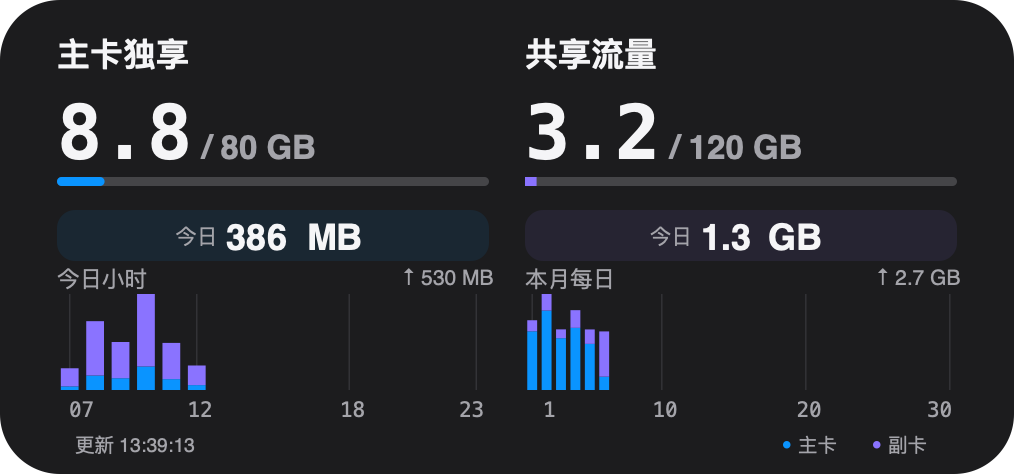
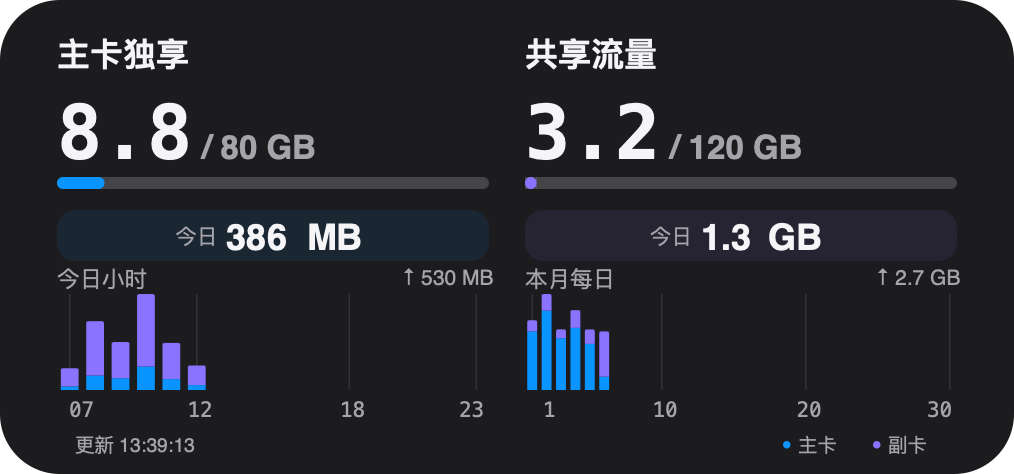
Refresh Unicom today layouts and round widget charts

diff --git a/scriptable/UnicomFlow.js b/scriptable/UnicomFlow.js
@@ -45,9 +45,11 @@ const UF = {
   blue: '0A94FF', purple: '8A73FF', warning: 'FFD166', gridMajor: '38383C', gridMinor: '27272B',
 };
 const UF_DEFAULTS = { ...UF };
-const UF_MEDIUM_LAYOUTS = ['今日横条', '今日集中方块', '今日侧边胶囊'];
+const UF_MEDIUM_LAYOUTS = ['今日横条', '今日在上', '今日右上角'];
 
 function normalizedMediumLayout(value) {
+  if (value === '今日集中方块') return '今日在上';
+  if (value === '今日侧边胶囊') return '今日右上角';
   return UF_MEDIUM_LAYOUTS.includes(value) ? value : UF_DEFAULTS.mediumLayout;
 }
 
@@ -163,6 +165,7 @@ function megabytes(value, unit) {
 function formatMB(value, mode = 'usage') {
   if (value == null || !Number.isFinite(value)) return '—';
   if (value === 0) return '0MB';
+  if (mode === 'daily' && value > 0 && value < 1) return '<1MB';
   const scale = value >= 1024 ? [1024, 'GB'] : [1, 'MB'];
   const displayed = value / scale[0];
   const digits = value < 1024 && value >= 10 ? 0 : 1;
@@ -1143,6 +1146,24 @@ function roundedRect(ctx, x, y, w, h, radius, color) {
   ctx.fillPath();
 }
 
+// 在整根色条绘制后修整外角，分段交界保持直角，微小色段也不会被拉长。
+function softenBarCorners(ctx, x, y, width, height, radius, background, topOnly = false) {
+  const r = Math.min(radius, width / 2, height / 2);
+  if (!(r > 0)) return;
+  const corners = [[x, y, 1, 1], [x + width, y, -1, 1]];
+  if (!topOnly) corners.push([x, y + height, 1, -1], [x + width, y + height, -1, -1]);
+  ctx.setFillColor(new Color(background));
+  for (const [cx, cy, dx, dy] of corners) {
+    const point = (px, py) => new Point(cx + px * dx, cy + py * dy);
+    const path = new Path(), control = r * (1 - 0.55228475);
+    path.move(point(0, 0));
+    path.addLine(point(r, 0));
+    path.addCurve(point(0, r), point(control, 0), point(0, control));
+    path.closeSubpath();
+    ctx.addPath(path); ctx.fillPath();
+  }
+}
+
 function drawMetric(ctx, metric, label, x, y, width, compact, today = false, dailyUsed = null) {
   const title = ['通用', '定向'].includes(label) ? '数据流量·' + label : label;
   const heading = today ? title + ' · 今日' : title;
@@ -1221,44 +1242,46 @@ function combinedTint(accent, strength = 0.09) {
   }).join('');
 }
 
-function combinedTodayText(value, width) {
+function combinedTodayText(value, width, scale = 1, increment = false, maxSize = Infinity) {
   const formatted = formatMB(value, 'daily'), match = formatted.match(/^(.*?)(MB|GB)$/);
   const runs = match ? [match[1], match[2]] : [formatted];
+  if (increment && value > 0 && Number.isFinite(value) && !formatted.startsWith('<')) runs[0] = '+' + runs[0];
   // 数字、单位独立绘制并预留真实字宽，避免真机换行后裁掉单位。
   const units = runs.map((run, index) => numberWidth(run, 1, 'today') * (index ? 1.2 : 1.05));
-  const size = Math.min(UF.todayFontSize, (width - 2 * runs.length - 2 * (runs.length - 1)) / Math.max(1, units.reduce((a, b) => a + b, 0)));
+  const size = Math.min(UF.todayFontSize * scale, maxSize, (width - 2 * runs.length - 2 * (runs.length - 1)) / Math.max(1, units.reduce((a, b) => a + b, 0)));
   const widths = units.map(unit => unit * size + 2);
   return { runs, size, widths, width: widths.reduce((a, b) => a + b, 0) + 2 * (runs.length - 1) };
 }
 
-function drawCombinedToday(ctx, value, x, y, width, height, label = '') {
+function drawCombinedToday(ctx, value, x, y, width, height, label = '', options = {}) {
   const labelWidth = label ? 14 : 0, gap = label ? 3 : 0;
-  const spec = combinedTodayText(value, width - labelWidth - gap);
-  let start = x + (width - spec.width - labelWidth - gap) / 2;
+  const spec = combinedTodayText(value, width - labelWidth - gap, options.scale || 1, options.increment, height / 1.2);
+  let start = options.left ? x : x + (width - spec.width - labelWidth - gap) / 2;
   if (label) {
     text(ctx, label, start, y + (height - 8.4) / 2, labelWidth, 8.4, 7, UF.muted);
     start += labelWidth + gap;
   }
   spec.runs.forEach((run, index) => {
-    text(ctx, run, start, y + (height - spec.size * 1.2) / 2, spec.widths[index], spec.size * 1.2, spec.size, UF.text, 'today');
+    text(ctx, run, start, y + (height - spec.size * 1.2) / 2, spec.widths[index], spec.size * 1.2, spec.size, options.color || UF.text, 'today');
     start += spec.widths[index] + 2;
   });
 }
 
-function drawCombinedMonth(ctx, metric, x, y, width, stacked = false) {
+function drawCombinedMonth(ctx, metric, x, y, width, options = {}) {
   const used = metric ? metric.used / 1024 : null;
   const primary = used == null ? '—' : used > 0 && used < 0.1 ? '<0.1' : used.toFixed(1);
   const quota = metric ? metric.total == null ? ' GB / 不限量' : ` / ${formatGB(metric.total, true)} GB` : '';
-  const quotaSize = Math.min(UF.totalFontSize, width / Math.max(1, numberWidth(quota, 1, 'total')));
-  const primarySize = Math.min(UF.usageFontSize, (width - (stacked ? 0 : numberWidth(quota, quotaSize, 'total') + 2))
+  const quotaSize = Math.min(UF.totalFontSize * (options.totalScale || 1), width / Math.max(1, numberWidth(quota, 1, 'total')));
+  const primarySize = Math.min(UF.usageFontSize * (options.scale || 1), (width - Math.max(options.reserve || 0, numberWidth(quota, quotaSize, 'total') + 2))
     / Math.max(1, numberWidth(primary, 1, 'usage')));
   const valueWidth = numberWidth(primary, primarySize, 'usage');
   text(ctx, primary, x, y, valueWidth + 2, 34, primarySize, UF.text, 'number');
-  if (quota) text(ctx, quota, stacked ? x : x + valueWidth + 2, stacked ? y + 28 : y + primarySize - quotaSize,
-    stacked ? width : width - valueWidth - 2, 18, quotaSize, UF.muted, 'total');
+  if (quota) text(ctx, quota, x + valueWidth + 2, y + primarySize - quotaSize,
+    width - valueWidth - 2, 18, quotaSize, UF.muted, 'total');
+  return { rightX: x + valueWidth + 2, rightWidth: width - valueWidth - 2 };
 }
 
-function drawCombinedProgress(ctx, metric, x, y, width, height = 3) {
+function drawCombinedProgress(ctx, metric, x, y, width, height = 4) {
   roundedRect(ctx, x, y, width, height, height / 2, UF.track);
   if (!metric || !(metric.total > 0 && metric.used > 0)) return;
   const c = metric.composition, scale = width / Math.max(metric.total, metric.used);
@@ -1266,6 +1289,7 @@ function drawCombinedProgress(ctx, metric, x, y, width, height = 3) {
     for (const [offset, value, color] of [[0, c.main, UF.blue], [c.main, c.vice, UF.purple]]) {
       if (value > 0) { ctx.setFillColor(new Color(color)); ctx.fillRect(new Rect(x + offset * scale, y, value * scale, height)); }
     }
+    softenBarCorners(ctx, x, y, metric.used * scale, height, height / 2, UF.track);
   } else if (!c) roundedRect(ctx, x, y, metric.used * scale, height, height / 2, UF.blue);
 }
 
@@ -1282,37 +1306,26 @@ function drawCombinedDetail(ctx, metric, x, y, width) {
 }
 
 function drawCombinedMetric(ctx, metric, label, daily, x, width, accent) {
-  const side = UF.mediumLayout === '今日侧边胶囊';
   const title = ['通用', '定向'].includes(label) ? '数据流量·' + label : label;
   text(ctx, title, x, 11, width, 14, Math.min(UF.titleFontSize || 11, width / title.length), UF.text, false, false, true);
-  drawCombinedMonth(ctx, metric, x, side ? 29 : 28, side ? width - 62 : width, side);
-  drawCombinedProgress(ctx, metric, x, side ? 75 : 59, width);
-  drawCombinedDetail(ctx, metric, x, side ? 80 : 62, width);
-  if (side) {
-    const boxX = x + width - 55;
-    if (UF.sectionBackground) roundedRect(ctx, boxX, 31, 55, 41, 7, combinedTint(accent));
-    text(ctx, '今日', boxX, 36, 55, 9, 7, UF.muted, false, true);
-    drawCombinedToday(ctx, daily, boxX + 3, 48, 49, 21);
+  if (UF.mediumLayout === '今日在上') {
+    if (UF.sectionBackground) roundedRect(ctx, x, 32.5, 29, 15, 5, combinedTint(accent));
+    text(ctx, '今日', x, 35.5, 29, 9, 7.5, UF.muted, false, true);
+    drawCombinedToday(ctx, daily, x + 34, 27, width - 34, 26, '', { scale: 1.6, left: true });
+    drawCombinedMonth(ctx, metric, x, 56, width, { scale: 0.6, totalScale: 0.8 });
+    drawCombinedProgress(ctx, metric, x, 76, width);
+    drawCombinedDetail(ctx, metric, x, 80, width);
+  } else if (UF.mediumLayout === '今日右上角') {
+    const month = drawCombinedMonth(ctx, metric, x, 38, width, { reserve: 62 });
+    drawCombinedToday(ctx, daily, month.rightX, 26, month.rightWidth, 14, '', { scale: 0.8, left: true, increment: true, color: accent });
+    drawCombinedProgress(ctx, metric, x, 76, width);
+    drawCombinedDetail(ctx, metric, x, 80, width);
   } else {
+    drawCombinedMonth(ctx, metric, x, 28, width);
+    drawCombinedProgress(ctx, metric, x, 59, width);
+    drawCombinedDetail(ctx, metric, x, 63, width);
     if (UF.sectionBackground) roundedRect(ctx, x, 70, width, 17, 6, combinedTint(accent));
     drawCombinedToday(ctx, daily, x + 3, 70, width - 6, 17, '今日');
-  }
-}
-
-function drawCombinedRows(ctx, metrics, daily, x, width) {
-  const square = 72, gap = 12, rowWidth = width - square - gap, boxX = x + rowWidth + gap;
-  for (const [index, metric, label, accent] of [[0, metrics.left, metrics.leftLabel, UF.blue], [1, metrics.right, metrics.rightLabel, UF.purple]]) {
-    const y = 8 + index * 37;
-    if (UF.sectionBackground) roundedRect(ctx, x - 4, y, rowWidth + 8, 34, 8, combinedTint(accent, 0.045));
-    text(ctx, label, x + 2, y + 9, 50, 14, Math.min(UF.titleFontSize || 10, 50 / Math.max(1, label.length)), UF.text, false, false, true);
-    drawCombinedMonth(ctx, metric, x + 54, y, rowWidth - 54);
-    drawCombinedProgress(ctx, metric, x + 54, y + 29.5, rowWidth - 58, 2.5);
-  }
-  drawCombinedDetail(ctx, metrics.right, x, 80, rowWidth);
-  if (UF.sectionBackground) roundedRect(ctx, boxX, 8, square, square, 10, combinedTint(UF.purple, 0.045));
-  text(ctx, '今日用量', boxX, 14, square, 11, 8, UF.muted, false, true);
-  for (const [index, label] of [[0, metrics.leftLabel === '主卡独享' ? '独享' : metrics.leftLabel], [1, metrics.rightLabel === '共享流量' ? '共享' : metrics.rightLabel]]) {
-    drawCombinedToday(ctx, daily[index], boxX + 3.5, 30 + index * 24, square - 7, 18, label);
   }
 }
 
@@ -1346,6 +1359,7 @@ function drawCompactChart(ctx, slots, title, x, y, width, hourly = false) {
           bottom -= segment; ctx.setFillColor(new Color(color));
           ctx.fillRect(new Rect(center - barWidth / 2, bottom, barWidth, segment));
         }
+        softenBarCorners(ctx, center - barWidth / 2, bottomY - h, barWidth, h, 0.75, UF.bg, true);
       } else { ctx.setFillColor(new Color(UF.track)); ctx.fillRect(new Rect(center - barWidth / 2, bottomY - 1, barWidth, 1)); }
     }
     offset += cell;
@@ -1375,12 +1389,8 @@ function renderImage(result, medium, width, height, mode = 'month') {
   const buckets = medium && today ? todayBuckets(result.history, now) : [];
   if (combined) {
     const leftX = pad + 6, col = (width - 2 * leftX - 12) / 2, rightX = leftX + col + 12;
-    if (UF.mediumLayout === '今日集中方块') {
-      drawCombinedRows(ctx, metrics, daily, leftX, width - 2 * leftX);
-    } else {
-      drawCombinedMetric(ctx, metrics.left, metrics.leftLabel, daily[0], leftX, col, UF.blue);
-      drawCombinedMetric(ctx, metrics.right, metrics.rightLabel, daily[1], rightX, col, UF.purple);
-    }
+    drawCombinedMetric(ctx, metrics.left, metrics.leftLabel, daily[0], leftX, col, UF.blue);
+    drawCombinedMetric(ctx, metrics.right, metrics.rightLabel, daily[1], rightX, col, UF.purple);
     // 下半双图的坐标与底色开关无关。
     const chartY = 98;
     drawCompactChart(ctx, widgetHourSlots(result.history, now), '今日小时', leftX, chartY, col, true);

diff --git a/docs/unicom-flow/README.md b/docs/unicom-flow/README.md
@@ -22,12 +22,14 @@
 本月中号采用综合布局，不新增组件参数。可在“组件配置 → 中号卡片布局”切换三种方案，默认“今日横条”；保存后通过“组件预览”查看。仅影响留空或 `month` 的本月综合中号，小号与独立 `today` 视图保留原布局：
 
 - **今日横条**：参考第一张图，左右分别为主卡独享与共享流量，上方月已用与总量同排，横向月进度条下方显示对应今日用量；今日横条分别用很浅的蓝色、紫色底色区分套餐。
-- **今日集中方块**：参考第二张图，左侧两组月用量上下排列、总量同排，月进度条在各行下方；右侧方形区域集中显示独享、共享的今日用量。月套餐行使用极浅蓝紫底色，今日方块使用极浅紫色。
-- **今日侧边胶囊**：对应预览方案A，左右套餐列各自将今日胶囊放在月用量右侧，总量移至月用量下方，横向月进度条稍下移。胶囊上下排列“今日”与数值，默认今日数值12号。
+- **今日在上**：左右分别为主卡独享与共享流量，标题下方用浅蓝／浅紫小胶囊标注“今日”，标签与今日数值垂直居中；下方月已用与总量同排，不重复“本月”标题，月已用为正文色、总量为灰色，再下方为横向进度条。
+- **今日右上角**：保留大号月已用，右上侧以主／副卡主题色小号显示今日增量，例如 `+100 MB`，不再重复“今日”；总量在增量下方，与月已用基线对齐。今日非零不足1 MB显示 `<1 MB`、真实零显示 `0 MB`、缺记录显示 `—`，这三种情况不添加加号。
 
-三种布局月已用均固定GB、保留一位小数（如 `8.8 / 80 GB`），非零不足0.1 GB显示 `<0.1`，零显示 `0.0`，无数据为 `—`；总量规则不变，不显示百分比。月已用、总量和今日分别沿用三组字体与字号设置，超宽时只缩小实际绘制字号。今日数字与MB／GB分开绘制，字体、字重、字号一致，间距2点，并预留真实字宽避免换行；标签、数值各自垂直居中。共享池主卡用量确认为0且成员合计完整时，省略逐卡明细；主卡开始使用共享池时保留本月主／副卡用量说明，成员缺失或合计不符时显示“明细未确认”，保留灰条，不推算。共享月进度条以套餐总量为整条宽度，蓝色主卡、紫色副卡相邻堆叠，不夸大短段；今日不重复显示逐卡用量。
+三种布局月已用均固定GB、保留一位小数（如 `8.8 / 80 GB`），非零不足0.1 GB显示 `<0.1`，零显示 `0.0`，无数据为 `—`；总量规则不变，不显示百分比。月已用、总量和今日共用三组字体设置。今日横条沿用菜单字号；今日在上将今日字号放大至设置的1.6倍、月已用及总量分别按0.6倍和0.8倍绘制；今日右上角的今日增量按0.8倍绘制，月已用与总量沿用菜单字号。各布局继续按可用宽高缩小实际绘制字号，不改保存值。今日数字与MB／GB分开绘制，字体、字重、字号一致，间距2点，并预留真实字宽避免换行；标签、数值各自垂直居中。共享池主卡用量确认为0且成员合计完整时，省略逐卡明细；主卡开始使用共享池时保留本月主／副卡用量说明，成员缺失或合计不符时显示“明细未确认”，保留灰条，不推算。共享月进度条以套餐总量为整条宽度，蓝色主卡、紫色副卡相邻堆叠，不夸大短段；今日不重复显示逐卡用量。
 
-“组件配置 → 内容分区底色”开关默认开启，仅控制上述今日横条、集中方块与套餐行、侧边胶囊的底色。三种布局的图表始终无底色，不再使用四块大灰底板。浅底从当前主题与自定义主／副卡颜色混合，黑白主题分别适配；关闭只移除浅底，文字、进度条、图表、刻度、更新时间与图例的位置、字号及尺寸完全一致。切换布局只保存界面选项，不更改历史数据。
+综合中号的横向进度条统一为4个设计点高，灰色底轨与彩色填充两端均保留圆角；共享条只修整整体外角，主副卡交界保持直角，短段不放大。下方双图柱顶使用最多0.75个设计点的轻微圆角，随柱宽和整柱高度缩小；柱底及堆叠内部保持直角，保留原始柱宽、柱高和颜色比例。
+
+“组件配置 → 内容分区底色”开关默认开启，控制今日横条与“今日在上”的标签胶囊底色；“今日右上角”保持纯文字，不增加底框。原“今日集中方块”和“今日侧边胶囊”选项已移除，已保存的选项分别迁移为“今日在上”和“今日右上角”。三种布局的图表始终无底色，不再使用四块大灰底板。浅底从当前主题与自定义主／副卡颜色混合，黑白主题分别适配；关闭只移除浅底，文字、进度条、图表、刻度、更新时间与图例的位置、字号及尺寸完全一致。切换布局只保存界面选项，不更改历史数据。
 
 综合中号底部左侧为“今日小时”，右侧为“本月每日”，都统计全部套餐；蓝色主卡包含独享和共享，紫色副卡为其共享用量，未知归属使用提示色。两图固定于下半部，分别缩放并显示峰值。更新时间在左下角、图例在右下角；综合中号两者分别向中间内收10点并下移4点，保留圆角安全区，双图刻度与底部信息保留独立空间。双位小时／日期标签至少预留14点宽及11点高，避免真机截断。没有采样和未来位置留空，真实零值才画短标记。小时图没有记录时显示“暂无记录”，有采样且用量确认为零时显示“今日暂无用量”；微量仍绘制实际柱子。月图按实际月份保留28—31个逐日位置，只标1、10、20及月末，不添加今日黑点标记。
 
@@ -130,7 +132,7 @@
 
 ## 历史图
 
-数值精度：综合中号顶部月已用固定使用GB并保留一位小数，非零不足0.1 GB显示 `<0.1`，真实零显示 `0.0`，无数据为 `—`；套餐总量规则不变，最多两位并去掉末尾零。其余小组件 GB 用量保留一位，今日视图下方统一 GB 时不足 1 GB 保留两位。MB 用量大于等于10时保留整数，0.1至不足10时保留一位（舍入到10时显示10），非零且不足0.1时显示 `<0.1 MB`；真实零显示 `0 MB`，不换算 KB。月用量与今日用量采用相同 MB 规则。套餐总量默认一位，小数尾零去除（如 `120GB`、`80.5GB`）。统计网页非零用量统一两位，非零但不足 0.01 个显示单位时显示 `<0.01`，无数据为 `—`，确认零用量为 `0MB`（网页单位前留空格），百分比仍为整数。只改变显示，不改变统计精度或历史数据。
+数值精度：综合中号顶部月已用固定使用GB并保留一位小数，非零不足0.1 GB显示 `<0.1`，真实零显示 `0.0`，无数据为 `—`；套餐总量规则不变，最多两位并去掉末尾零。其余小组件 GB 用量保留一位，今日视图下方统一 GB 时不足 1 GB 保留两位。MB 用量大于等于10时保留整数，0.1至不足10时保留一位（舍入到10时显示10），非零且不足0.1时显示 `<0.1 MB`；真实零显示 `0 MB`，不换算 KB。今日用量及组件图表峰值的MB显示单独采用1 MB阈值：非零不足1 MB为 `<1 MB`，1至不足10 MB保留一位，其余规则相同；小号本月用量和套餐总量的微量规则保留不变。套餐总量默认一位，小数尾零去除（如 `120GB`、`80.5GB`）。统计网页非零用量统一两位，非零但不足 0.01 个显示单位时显示 `<0.01`，无数据为 `—`，确认零用量为 `0MB`（网页单位前留空格），百分比仍为整数。只改变显示，不改变统计精度或历史数据。
 
 中号图表随参数切换：`today` 显示今天 00—23 时的小时分布，标题“小时用量”；留空或 `month` 使用上述综合中号双图，其中月图标题“本月每日”，按当月实际天数绘制，日期刻度为1、10、20及月末日。月图直接读取已有每日用量记录，小时明细超过七天后月图仍能显示，不新增存储；无法拆分到某一天的跨午夜区间不塞入每日柱子，因此柱子合计可能低于月度统计合计。整卡图例统一移至中号卡片底部右侧，与更新时间同一行横排“蓝点＋主卡、紫点＋副卡”，同时解释套餐进度条和用量图，不再附加用量数字。小时／每日柱均保留主副卡堆叠颜色，未知归属仍用黄色表示，其详细数值在统计网页查看。图表底部保留更新时间，小号不增加图表。利用上方留白将柱图区高度由29增至35个设计点（约21%），标题、图例同步上移6点，柱子底边、刻度和更新时间不变；综合中号采用固定上下各半的布局，主副卡月明细出现在上半套餐分区内，双图不会因明细而侵入上半区域。
 
@@ -220,9 +222,9 @@
 
 ![综合中号白色主题：今日横条](preview-medium-light.png)
 
-![综合中号白色主题：今日集中方块](preview-medium-square-light.png)
+![综合中号白色主题：今日在上](preview-medium-top-light.png)
 
-![综合中号白色主题：今日侧边胶囊](preview-medium-side-light.png)
+![综合中号白色主题：今日右上角](preview-medium-corner-light.png)
 
 ![综合中号白色主题：独享耗尽后主副卡同时使用共享池](preview-medium-shared-light.png)
 
@@ -244,7 +246,7 @@
 
 刷新记录页“清除记录”通过原生确认仅清除刷新时间和间隔，完成后原页立即显示清空状态，不查询联通。数据存储页将“清除最新套餐快照”“清除全部历史”独立放在底部“谨慎清理”分块，以橙色文档和红色警告图标区分，仍需逐项确认。
 
-小组件的 MB 显示：大于等于10 MB四舍五入为整数；0.1至不足10 MB保留一位小数（舍入到10时显示10）；非零且不足0.1 MB显示 `<0.1 MB`，零显示 `0 MB`。适用于小号、独立今日视图及综合中号的今日行，原始数据不变；综合中号顶部月用量固定使用GB并保留一位小数，非零不足0.1 GB显示 `<0.1`，真实零显示 `0.0`，总量省略无意义的小数零。统计网页仍保留两位小数；MB／GB换算仍沿用1024，未更改接口数据口径。
+小组件的 MB 显示：大于等于10 MB四舍五入为整数；0.1至不足10 MB保留一位小数（舍入到10时显示10）；非零且不足0.1 MB显示 `<0.1 MB`，零显示 `0 MB`。小号本月用量及套餐总量沿用上述规则；独立今日视图、综合中号今日用量与图表峰值的非零不足1 MB统一显示 `<1 MB`，零仍显示 `0 MB`、缺记录仍显示 `—`，原始数据不变；综合中号顶部月用量固定使用GB并保留一位小数，非零不足0.1 GB显示 `<0.1`，真实零显示 `0.0`，总量省略无意义的小数零。统计网页仍保留两位小数；MB／GB换算仍沿用1024，未更改接口数据口径。
 
 用量统计的“明细记录”默认折叠，点击标题展开或收起；展开后仍可左右滑动表格。单日、单月和月度趋势共用此折叠区域，切换周期不强制重置展开状态。
 
